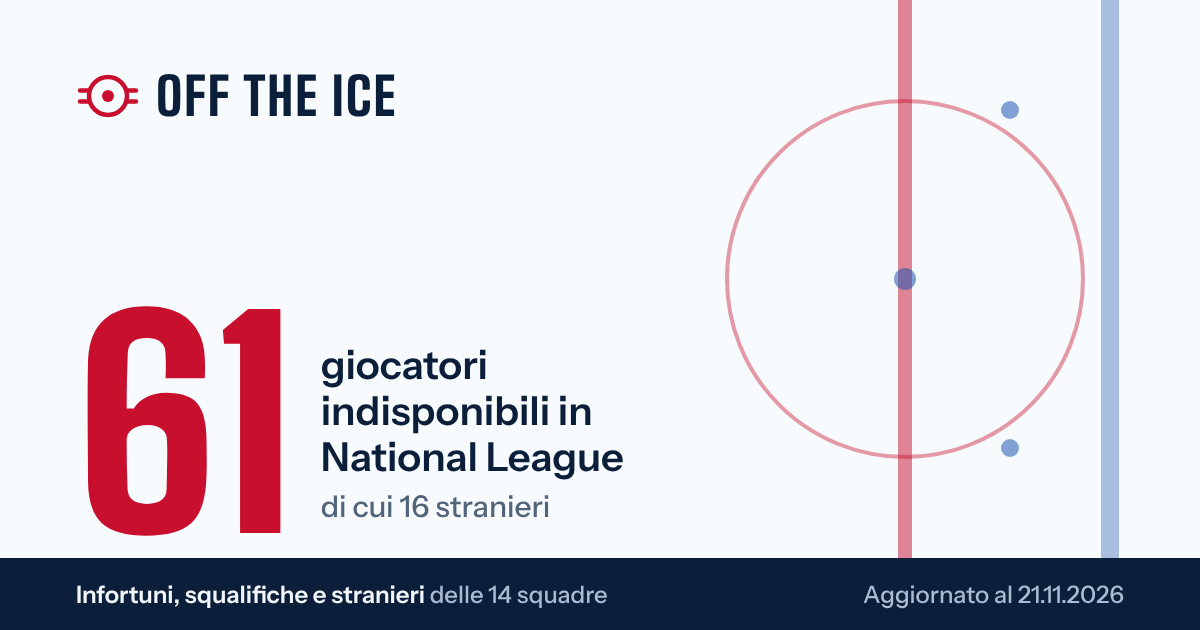
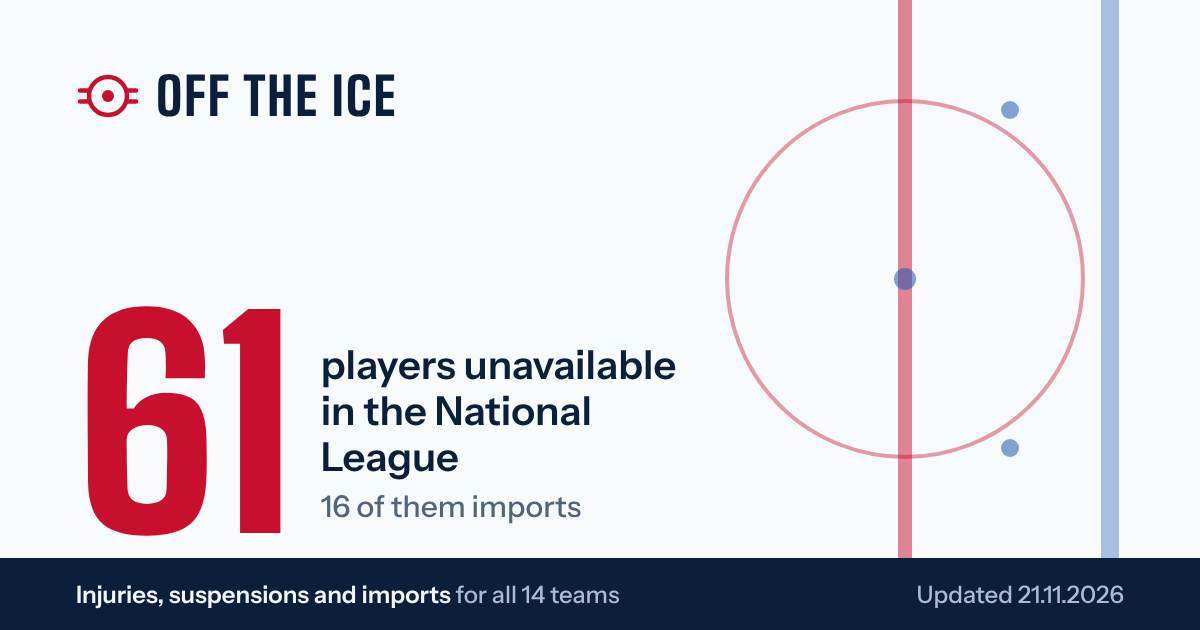
Default to English and fix UI review issues (#1)
- Open the site in English; visitors still choose IT/FR/DE/EN from the
  language menu and the choice is kept in their browser. Tab title now
  follows the chosen language; meta, share tags and og-image in English.
- Keep the hero headline clear of the rink lines (desktop) and fade the
  rink behind text on tablets.
- 44px minimum tap targets for logo, theme, language and "Show all".
- Same "My rosters" label in the top bar and the phone tab bar.
- Desktop overview: both lists stacked on the right so columns end closer.
- Phone: biggest absences scroll sideways instead of three rows deep.
- Remove the extra gap before the date in the "data as of" line.

The fixes live in tools/site_fixes.css and build_site.py so the
twice-daily rebuild keeps them.

Claude-Session: https://claude.ai/code/session_01Uce6BTkpB7VKZD2UoXqSfq

diff --git a/index.html b/index.html
@@ -3,14 +3,17 @@
 <head>
 <meta charset="utf-8">
 <meta name="viewport" content="width=device-width,initial-scale=1,viewport-fit=cover">
-<title>Off the Ice · Infortunati e indisponibili della National League</title>
-<meta name="description" content="Chi manca in National League: infortuni, squalifiche e stranieri in tribuna delle 14 squadre di hockey, con rientro previsto, ultime 5 partite e le tue rose per il fantahockey. Aggiornato due volte al giorno.">
+<title>Off the Ice · Who's missing in the National League</title>
+<meta name="description" content="Who's missing in the National League: injuries, suspensions and scratched imports for all 14 teams, with expected return, last 5 games and your own fantasy hockey rosters. Updated twice a day.">
 <meta name="robots" content="index,follow">
 <meta name="google-site-verification" content="UMQqYc_pF2QXIGmAaknFINabVE4EtxecVviGykGKkk8">
 <meta property="og:type" content="website">
-<meta property="og:title" content="Off the Ice · Infortunati e indisponibili della National League">
-<meta property="og:description" content="Chi manca in National League: infortuni, squalifiche e stranieri in tribuna delle 14 squadre di hockey, con rientro previsto, ultime 5 partite e le tue rose per il fantahockey. Aggiornato due volte al giorno.">
-<meta property="og:locale" content="it_CH">
+<meta property="og:title" content="Off the Ice · Who's missing in the National League">
+<meta property="og:description" content="Who's missing in the National League: injuries, suspensions and scratched imports for all 14 teams, with expected return, last 5 games and your own fantasy hockey rosters. Updated twice a day.">
+<meta property="og:locale" content="en_GB">
+<meta property="og:locale:alternate" content="it_CH">
+<meta property="og:locale:alternate" content="fr_CH">
+<meta property="og:locale:alternate" content="de_CH">
 <link rel="canonical" href="https://scottregush.github.io/off-the-ice/">
 <meta property="og:url" content="https://scottregush.github.io/off-the-ice/">
 <meta name="theme-color" content="#0C1F3A">
@@ -19,11 +22,11 @@
 <meta property="og:image" content="https://scottregush.github.io/off-the-ice/og-image.png?v=2026-11-21">
 <meta property="og:image:width" content="1200">
 <meta property="og:image:height" content="630">
-<meta property="og:image:alt" content="Off the Ice: giocatori indisponibili in National League, aggiornato al 21.11.2026">
+<meta property="og:image:alt" content="Off the Ice: unavailable players in the National League, updated 21.11.2026">
 <meta property="og:site_name" content="Off the Ice">
 <meta name="twitter:card" content="summary_large_image">
-<meta name="twitter:title" content="Off the Ice · Infortunati e indisponibili della National League">
-<meta name="twitter:description" content="Chi manca in National League: infortuni, squalifiche e stranieri in tribuna delle 14 squadre di hockey, con rientro previsto, ultime 5 partite e le tue rose per il fantahockey. Aggiornato due volte al giorno.">
+<meta name="twitter:title" content="Off the Ice · Who's missing in the National League">
+<meta name="twitter:description" content="Who's missing in the National League: injuries, suspensions and scratched imports for all 14 teams, with expected return, last 5 games and your own fantasy hockey rosters. Updated twice a day.">
 <meta name="twitter:image" content="https://scottregush.github.io/off-the-ice/og-image.png?v=2026-11-21">
 <style>:root{color-scheme:light;box-sizing:border-box;padding-top:env(safe-area-inset-top,0px);padding-bottom:env(safe-area-inset-bottom,0px)}html{scroll-padding-top:env(safe-area-inset-top,0px)}body{margin:0;padding:0}img{max-width:100%}[hidden]:not([hidden=until-found i]){display:none!important}</style>
 </head>
@@ -3574,7 +3577,7 @@ const box = document.getElementById('lang'), b = document.getElementById('lang-b
 function apply(l){
   lang = l; document.documentElement.lang = l;
   busy = true; walk(document.body); mo.takeRecords(); busy = false;
-  document.title = tr(titleIT);
+  document.title = ({it:"Off the Ice · Infortunati e indisponibili della National League", fr:"Off the Ice · Blessés et absents de la National League", de:"Off the Ice · Verletzte und Ausfälle der National League", en:"Off the Ice · Who's missing in the National League"})[l] || tr(titleIT);
   if (b){
     const name = LANGS.find(x => x[0] === l)[1];
     b.querySelector('.lc').textContent = l.toUpperCase();
@@ -3586,10 +3589,7 @@ function apply(l){
 let saved = null;
 try { saved = localStorage.getItem('oti-lang'); } catch (e){}
 let start = LANGS.some(x => x[0] === saved) ? saved : null;
-if (!start){
-  for (const n of (navigator.languages || [navigator.language || ''])){ const c = String(n).slice(0, 2).toLowerCase(); if (LANGS.some(x => x[0] === c)){ start = c; break; } }
-}
-apply(start || 'it');
+apply(start || 'en');
 mo.observe(document.body, {childList:true, subtree:true, characterData:true, attributes:true, attributeFilter:ATTRS});
 
 if (!b) return;
@@ -3604,5 +3604,49 @@ menu.addEventListener('keydown', e => {
 document.addEventListener('click', e => { if (!menu.hidden && !box.contains(e.target)) open(false); });
 })();
 </script>
+<style id="site-fixes">
+/* Layout fixes for the public site, added by build_site.py after the page's own styles
+   (so they win on equal specificity). Keep them here so the twice-daily rebuild keeps them. */
+
+/* Headline stays clear of the rink lines and faceoff circle on wide screens. */
+.band h1{max-width:840px}
+/* Tablets: the rink fills most of the band, so fade it behind the text as the phone layout already does. */
+@media (max-width:1023px){.rink{opacity:.3}}
+
+/* The "data as of" line: one line of text, no flex gap between the words and the date. */
+.band .eyebrow{display:block}
+.band .eyebrow::before{display:inline-block;vertical-align:middle;margin:-2px 10px 0 4px}
+
+/* Tap targets of at least 44 x 44 px. */
+.brand{min-height:44px}
+.theme-b{width:44px;height:44px}
+.theme-b.lang-b{min-width:44px}
+.more-b{min-height:44px}
+
+/* Same roster label in the top bar and the bottom tab bar. */
+@media (max-width:720px){
+  .tabs a .t-long{display:inline}
+  .tabs a .t-short{display:none}
+  .tabs a,.tabs a:hover{text-align:center;line-height:1.15}
+}
+
+/* Desktop overview: team bars on the left, both lists stacked on the right, so the columns end close together. */
+@media (min-width:981px){
+  .two > .stack{display:contents}
+  .two > .stack > :first-child{grid-column:1;grid-row:1 / span 2}
+  .two > .stack > :nth-child(2),.two > .card{grid-column:2}
+}
+@media (min-width:1200px){
+  body.panel-open .two > .stack{display:flex}
+  body.panel-open .two > .card{grid-column:auto}
+}
+
+/* Phone: the biggest absences scroll sideways instead of stacking three rows deep. */
+@media (max-width:720px){
+  .heavy{display:flex;gap:10px;overflow-x:auto;scroll-snap-type:x proximity;scroll-padding-inline:max(16px,env(safe-area-inset-left,0px));margin-inline:calc(-1 * max(16px,env(safe-area-inset-left,0px)));padding-inline:max(16px,env(safe-area-inset-left,0px));padding-bottom:2px;scrollbar-width:none}
+  .heavy::-webkit-scrollbar{display:none}
+  .heavy > *{flex:0 0 152px;scroll-snap-align:start}
+}
+</style>
 </body>
 </html>

diff --git a/tools/site_fixes.css b/tools/site_fixes.css
@@ -1,0 +1,42 @@
+/* Layout fixes for the public site, added by build_site.py after the page's own styles
+   (so they win on equal specificity). Keep them here so the twice-daily rebuild keeps them. */
+
+/* Headline stays clear of the rink lines and faceoff circle on wide screens. */
+.band h1{max-width:840px}
+/* Tablets: the rink fills most of the band, so fade it behind the text as the phone layout already does. */
+@media (max-width:1023px){.rink{opacity:.3}}
+
+/* The "data as of" line: one line of text, no flex gap between the words and the date. */
+.band .eyebrow{display:block}
+.band .eyebrow::before{display:inline-block;vertical-align:middle;margin:-2px 10px 0 4px}
+
+/* Tap targets of at least 44 x 44 px. */
+.brand{min-height:44px}
+.theme-b{width:44px;height:44px}
+.theme-b.lang-b{min-width:44px}
+.more-b{min-height:44px}
+
+/* Same roster label in the top bar and the bottom tab bar. */
+@media (max-width:720px){
+  .tabs a .t-long{display:inline}
+  .tabs a .t-short{display:none}
+  .tabs a,.tabs a:hover{text-align:center;line-height:1.15}
+}
+
+/* Desktop overview: team bars on the left, both lists stacked on the right, so the columns end close together. */
+@media (min-width:981px){
+  .two > .stack{display:contents}
+  .two > .stack > :first-child{grid-column:1;grid-row:1 / span 2}
+  .two > .stack > :nth-child(2),.two > .card{grid-column:2}
+}
+@media (min-width:1200px){
+  body.panel-open .two > .stack{display:flex}
+  body.panel-open .two > .card{grid-column:auto}
+}
+
+/* Phone: the biggest absences scroll sideways instead of stacking three rows deep. */
+@media (max-width:720px){
+  .heavy{display:flex;gap:10px;overflow-x:auto;scroll-snap-type:x proximity;scroll-padding-inline:max(16px,env(safe-area-inset-left,0px));margin-inline:calc(-1 * max(16px,env(safe-area-inset-left,0px)));padding-inline:max(16px,env(safe-area-inset-left,0px));padding-bottom:2px;scrollbar-width:none}
+  .heavy::-webkit-scrollbar{display:none}
+  .heavy > *{flex:0 0 152px;scroll-snap-align:start}
+}

diff --git a/tools/brand.html b/tools/brand.html
@@ -1,5 +1,5 @@
 <!doctype html>
-<html lang="it">
+<html lang="en">
 <head>
 <meta charset="utf-8">
 <style>
@@ -74,9 +74,9 @@ document.getElementById('og').innerHTML = rink + `
   <div class="content txt">
     <div class="lockup">${mark(64)}<span class="disp">Off the Ice</span></div>
     <div class="hero"><span class="disp num">${total}</span>
-      <p class="lbl">giocatori indisponibili in National League<span>di cui ${imports} stranieri</span></p></div>
+      <p class="lbl">players unavailable in the National League<span>${imports} of them imports</span></p></div>
   </div>
-  <div class="foot txt"><span><b>Infortuni, squalifiche e stranieri</b> delle 14 squadre</span><span>Aggiornato al ${date}</span></div>`;
+  <div class="foot txt"><span><b>Injuries, suspensions and imports</b> for all 14 teams</span><span>Updated ${date}</span></div>`;
 
 document.getElementById('icon').innerHTML = mark(360, '#F2F6FA');
 

diff --git a/tools/make_brand.js b/tools/make_brand.js
@@ -35,5 +35,5 @@ const path = require('path');
     await big.locator('#sheet').screenshot({ path: sheetOut });
   }
   await browser.close();
-  console.log(`brand images written · ${q.get('total')} indisponibili · ${q.get('date')}`);
+  console.log(`brand images written · ${q.get("total")} unavailable · ${q.get("date")}`);
 })();

diff --git a/tools/build_site.py b/tools/build_site.py
@@ -39,29 +39,55 @@ s = re.sub(r'<p><b>Foto e statistiche\.</b>.*?</p>',
 s = re.sub(r'<p><b>Le mie rose\.</b>.*?</p>',
            '<p><b>Le mie rose.</b> '+"Le tue rose sono salvate in questo browser. Se accedi con la tua email, vengono salvate anche nel tuo account, così le ritrovi sugli altri dispositivi. L'accesso è facoltativo e l'email serve solo a questo: non viene usata per altro né condivisa. I dati sono conservati presso Supabase, su server in Europa, e puoi eliminare account e dati in qualsiasi momento con «Elimina account» nella pagina delle rose."+' <a href="privacy.html">Privacy</a></p>', s, count=1, flags=re.S)
 
+# 2b. English by default. Visitors pick another language (IT/FR/DE/EN) from the menu, and the choice is kept
+#     in their browser; the browser's own language no longer decides.
+s = re.sub(r"if \(!start\)\{\n  for \(const n of \(navigator\.languages[^\n]*\n\}\n", '', s, count=1)
+s = s.replace("apply(start || 'it');", "apply(start || 'en');")
+if "apply(start || 'en');" not in s:
+    print('warning: language start code not found; the default language was not set to English')
+# The browser-tab title follows the chosen language (the page's own translation left it in Italian).
+TITLES_JS = ('document.title = ({it:"Off the Ice · Infortunati e indisponibili della National League", '
+             'fr:"Off the Ice · Blessés et absents de la National League", '
+             'de:"Off the Ice · Verletzte und Ausfälle der National League", '
+             'en:"Off the Ice · Who\'s missing in the National League"})[l] || tr(titleIT);')
+s = s.replace('document.title = tr(titleIT);', TITLES_JS)
+if TITLES_JS not in s:
+    print('warning: title code not found; the browser-tab title is not translated')
+
+# 2c. Layout fixes for the open web (tools/site_fixes.css), placed after the page's own styles.
+fixes = Path(__file__).resolve().parent / 'site_fixes.css'
+s = re.sub(r'\s*<style id="site-fixes">.*?</style>', '', s, flags=re.S)
+if fixes.exists():
+    s += '\n<style id="site-fixes">\n' + fixes.read_text(encoding='utf8').strip() + '\n</style>'
+
 # 3. Initials only: no need to keep the image markup reachable.
 updated = re.search(r'"updated":"(\d{4}-\d{2}-\d{2})"', s)
 updated = updated.group(1) if updated else date.today().isoformat()
 
 y_, m_, d_ = updated.split('-')
 updated_it = f'{d_}.{m_}.{y_}'
-title = 'Off the Ice · Infortunati e indisponibili della National League'
-desc = ('Chi manca in National League: infortuni, squalifiche e stranieri in tribuna delle 14 squadre di hockey, '
-        'con rientro previsto, ultime 5 partite e le tue rose per il fantahockey. Aggiornato due volte al giorno.')
+# English by default: search and share previews read these tags without running the page.
+# The page then sets the tab title to the visitor's chosen language (see TITLES_JS above).
+title_en = "Off the Ice · Who's missing in the National League"
+desc = ("Who's missing in the National League: injuries, suspensions and scratched imports for all 14 teams, "
+        'with expected return, last 5 games and your own fantasy hockey rosters. Updated twice a day.')
 
 head = f'''<!doctype html>
 <html lang="it">
 <head>
 <meta charset="utf-8">
 <meta name="viewport" content="width=device-width,initial-scale=1,viewport-fit=cover">
-<title>{title}</title>
+<title>{title_en}</title>
 <meta name="description" content="{desc}">
 <meta name="robots" content="index,follow">
 <meta name="google-site-verification" content="UMQqYc_pF2QXIGmAaknFINabVE4EtxecVviGykGKkk8">
 <meta property="og:type" content="website">
-<meta property="og:title" content="{title}">
+<meta property="og:title" content="{title_en}">
 <meta property="og:description" content="{desc}">
-<meta property="og:locale" content="it_CH">
+<meta property="og:locale" content="en_GB">
+<meta property="og:locale:alternate" content="it_CH">
+<meta property="og:locale:alternate" content="fr_CH">
+<meta property="og:locale:alternate" content="de_CH">
 {f'<link rel="canonical" href="{site_url}">' if site_url else ''}
 {f'<meta property="og:url" content="{site_url}">' if site_url else ''}
 <meta name="theme-color" content="#0C1F3A">
@@ -70,10 +96,10 @@ head = f'''<!doctype html>
 {f'<meta property="og:image" content="{site_url}og-image.png?v={updated}">' if site_url else ''}
 <meta property="og:image:width" content="1200">
 <meta property="og:image:height" content="630">
-<meta property="og:image:alt" content="Off the Ice: giocatori indisponibili in National League, aggiornato al {updated_it}">
+<meta property="og:image:alt" content="Off the Ice: unavailable players in the National League, updated {updated_it}">
 <meta property="og:site_name" content="Off the Ice">
 <meta name="twitter:card" content="summary_large_image">
-<meta name="twitter:title" content="{title}">
+<meta name="twitter:title" content="{title_en}">
 <meta name="twitter:description" content="{desc}">
 {f'<meta name="twitter:image" content="{site_url}og-image.png?v={updated}">' if site_url else ''}
 <style>:root{{color-scheme:light;box-sizing:border-box;padding-top:env(safe-area-inset-top,0px);padding-bottom:env(safe-area-inset-bottom,0px)}}html{{scroll-padding-top:env(safe-area-inset-top,0px)}}body{{margin:0;padding:0}}img{{max-width:100%}}[hidden]:not([hidden=until-found i]){{display:none!important}}</style>

diff --git a/README.md b/README.md
@@ -10,6 +10,8 @@ Sito: https://scottregush.github.io/off-the-ice/
 - Le rose dei visitatori restano nel loro browser (localStorage).
 - I dati vengono ricontrollati automaticamente due volte al giorno (mattino e dopo le partite serali) e il file viene aggiornato solo quando le fonti cambiano.
 - `tools/build_site.py` genera `index.html` dalla versione di lavoro della pagina: `python3 -I tools/build_site.py <pagina.html> . https://scottregush.github.io/off-the-ice`
+- Il sito si apre in inglese; ogni visitatore può scegliere italiano, francese o tedesco dal menu della lingua e la scelta resta nel suo browser. Anteprime social e meta tag sono in inglese.
+- `tools/site_fixes.css` contiene le correzioni di layout per il sito pubblico; `build_site.py` le aggiunge a ogni build, così non si perdono con gli aggiornamenti.
 
 ## Fonti
 
